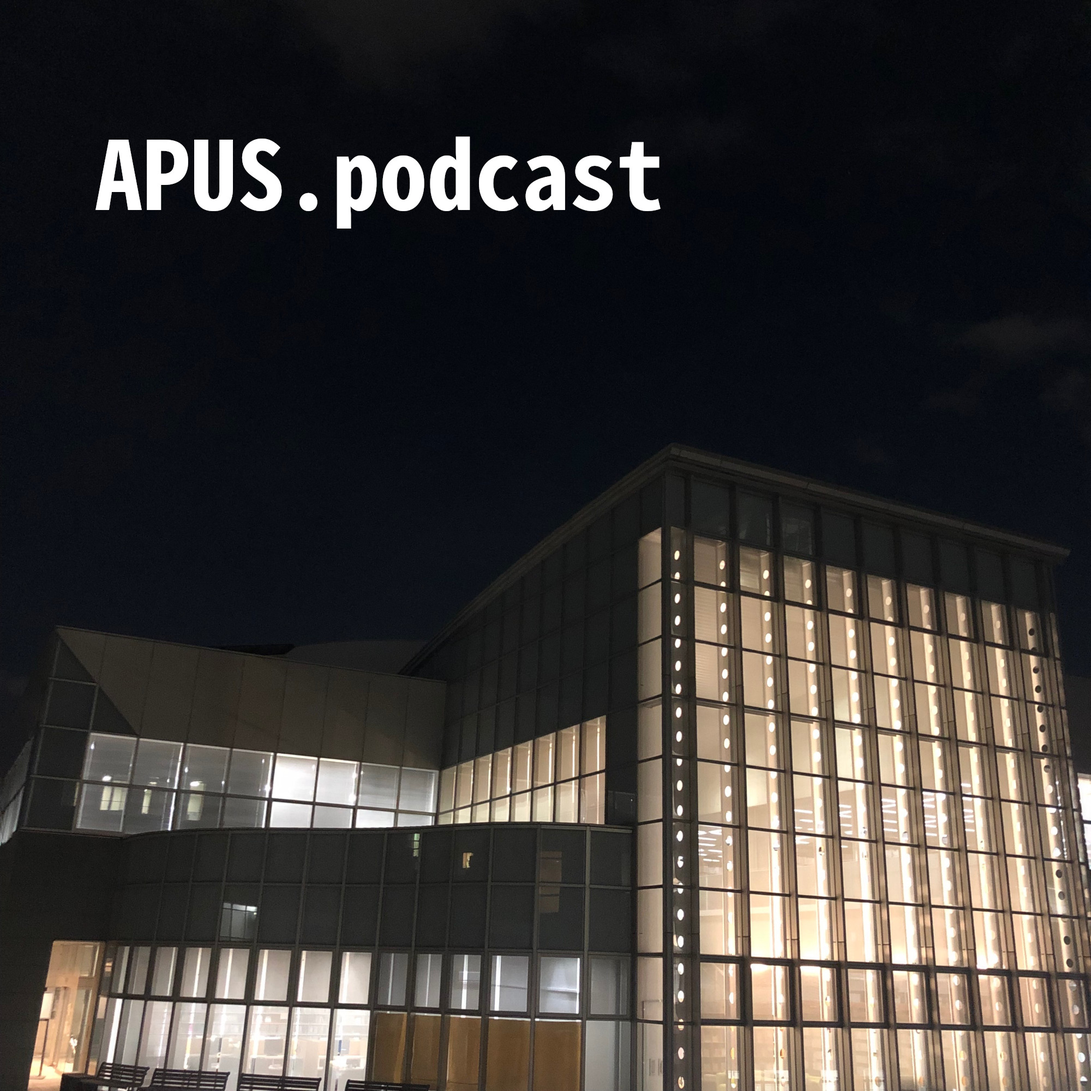
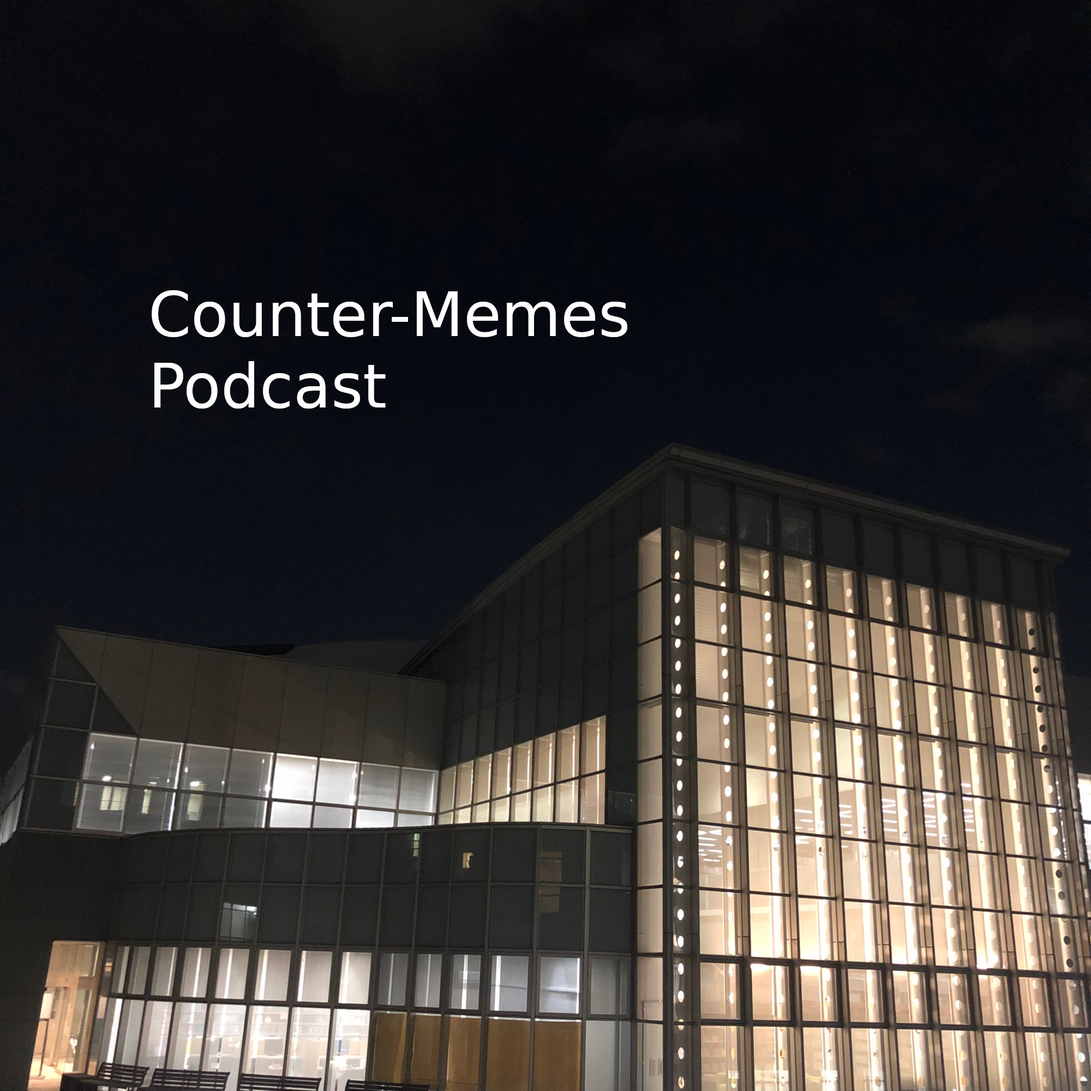
Fix

diff --git a/layouts/_default/baseof.html b/layouts/_default/baseof.html
@@ -26,7 +26,7 @@
     <header class="site">
         <h1>
             <a href="/"></a>
-            <span>Aichi Prefectural University Students' Podcast</span>
+            <span>Counter Memes Podcast</span>
         </h1>
     </header>
     <main>

diff --git a/content/_index.md b/content/_index.md
@@ -1,6 +1,5 @@
 ---
 ---
 
-APUS.podcastは愛知県立大学情報科学部生の[Kotet](https://twitter.com/kotetttt)が作るPodcastです。
-愛知県立大学に関するさまざまな人に話を聴きます。
-非公式で愛知県立大学とは関係ないのでそこんとこよろしくおねがいします。
+Counter Memes Podcastは愛知県立大学情報科学部生の[Kotet](https://twitter.com/kotetttt)が作るPodcastです。
+主に愛知県立大学に関するさまざまな人に話を聴きます。

diff --git a/content/episode/ep1.md b/content/episode/ep1.md
@@ -7,6 +7,7 @@ podcast_duration: 01:28:34
 podcast_file: "ep1.mp3"
 ---
 
+### Notes:
 
 - [@mekaboti](https://twitter.com/mekaboti)
 - [ポッドキャスト - Wikipedia](https://ja.wikipedia.org/wiki/%E3%83%9D%E3%83%83%E3%83%89%E3%82%AD%E3%83%A3%E3%82%B9%E3%83%88)
